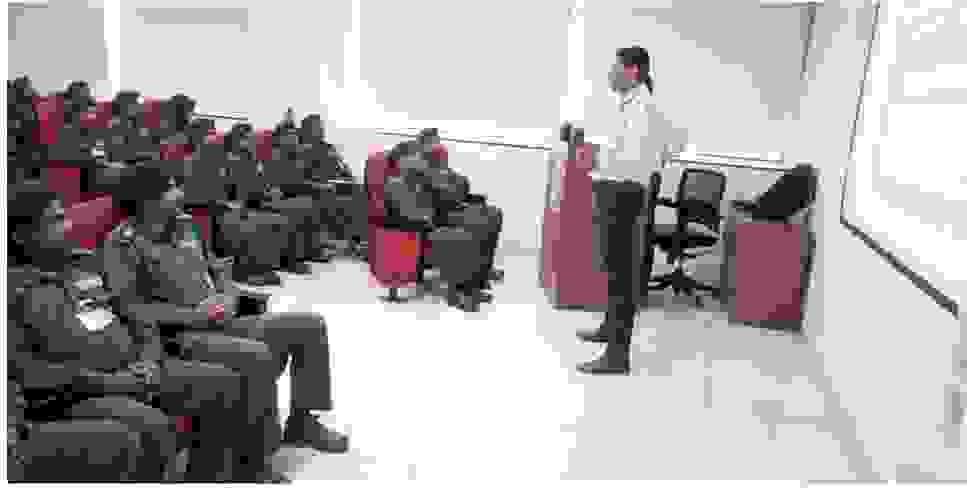
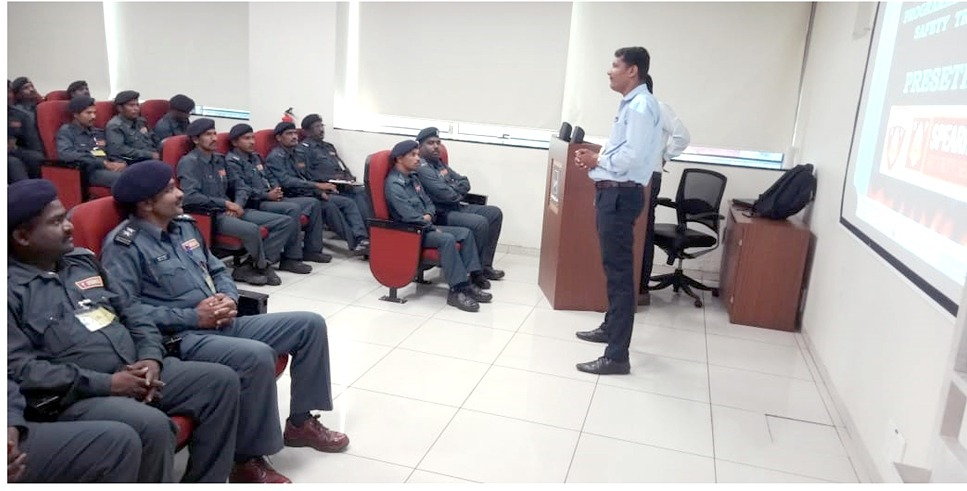
Fix blurry brochure photos: correct JPEG quality + upscale
Root cause: @napi-rs/canvas encode() expects quality as 0-100 integer;
passing 0.85/0.9 collapsed all photos to ~quality-1 JPEGs (5-15KB mush).
Now: integer quality 90-92, 2x high-quality upscale + unsharp mask for
slots displayed larger than native pixels, Industries hero moved off the
448px source. Photos now render sharp.

diff --git a/src/app/industries/page.tsx b/src/app/industries/page.tsx
@@ -23,7 +23,7 @@ export default function IndustriesPage() {
         eyebrow="Industries"
         title="Security Solutions Across Diverse Industries"
         description="Each environment carries different risks. Here is how we assess, design and supervise security for the sectors we serve."
-        image="/images/extra/deployment-briefing.jpg"
+        image="/images/home/cta.jpg"
         trail={[{ name: "Home", path: "/" }, { name: "Industries", path: "/industries" }]}
       />
 

diff --git a/README.md b/README.md
@@ -107,7 +107,13 @@ background removed, and the colour system was sampled from the logo artwork:
 - Palette: Navy `#123F62` · Burgundy `#79162D` · Orange `#F17B24` · Mist `#F0F1F1` · Ink `#253242`
 
 Authentic Spearhead photographs extracted from the brochure live in `public/images/`
-(wired through the config files):
+(wired through the config files). The prep script re-encodes each photo at high
+JPEG quality and applies a 2× high-quality upscale + unsharp mask where a display
+slot is larger than the native pixels — re-run after any brochure re-extraction:
+
+```bash
+node scripts/prepare-brochure-images.mjs
+```
 
 ```
 public/images/home/…            hero band, intro, training, careers, CTA
